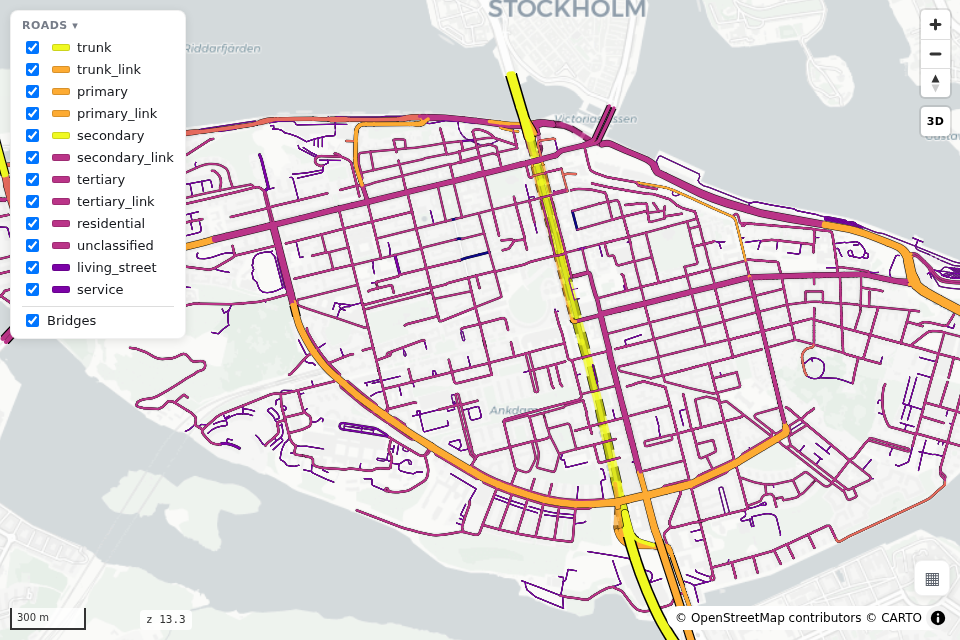
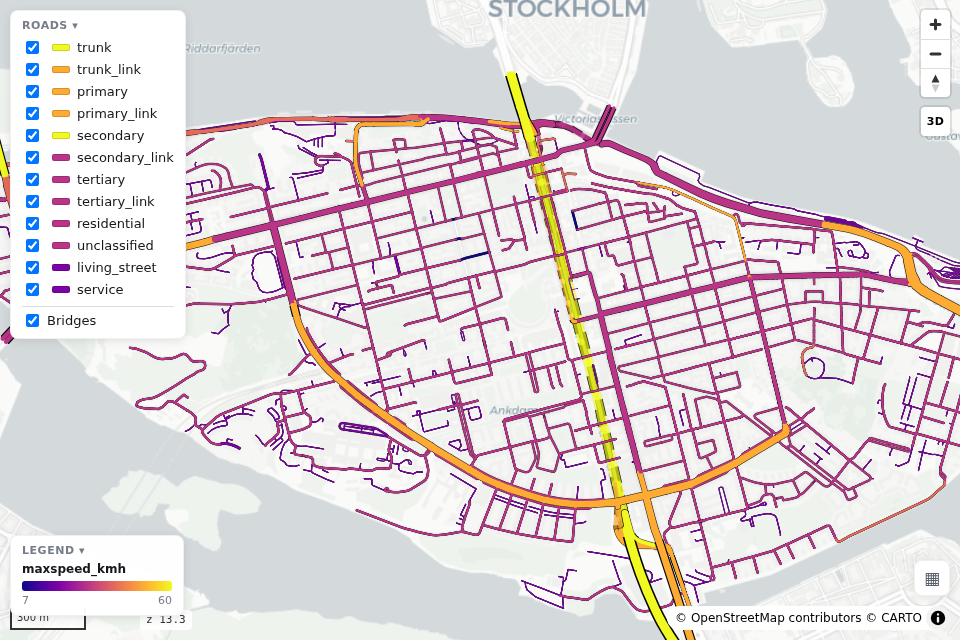
web: honour legend= on the web backend for color_by/cmap maps
render_edges(backend="web", color_by=…, cmap=…) (and the CLI) now bake the data styler's
rf.legend as a single legend-only "colour by" entry, so the page draws the legend — matching
the folium backend's legend= arg. One entry ⇒ no dropdown, just the key. Class styling carries
no legend (unchanged); legend=False opts out. Regenerate the speed_datadriven gallery thumbnail.

Unreleased — not published to PyPI.

Changed region(s): [[0.0, 0.8125, 0.2188, 0.9375]]

diff --git a/tests/test_render_web.py b/tests/test_render_web.py
@@ -63,6 +63,21 @@ def test_web_no_color_options_is_unchanged():
     assert "const COLOR_OPTIONS = [];" in wm.html   # picker JS present but inert (empty)
 
 
+def _copts(html):
+    return re.search(r"const COLOR_OPTIONS = (.+?);", html).group(1)
+
+
+def test_web_color_by_bakes_its_legend():
+    # the plain color_by/cmap path renders the styler's legend on the web backend (no dropdown —
+    # one legend-only entry). legend=True is the default, matching folium.
+    on = _copts(render_edges(_edges(), backend="web", color_by="aadt", cmap="viridis").html)
+    assert '"legend"' in on and '"kind": "continuous"' in on   # continuous ramp legend baked
+    # legend=False opts out
+    off = _copts(render_edges(_edges(), backend="web", color_by="aadt", cmap="viridis",
+                              legend=False).html)
+    assert off == "[]"
+
+
 def test_web_annotation_slots_alternate_names_and_arrows():
     """The annotation plan: each road chain is sliced into equal per-band slots; names take even
     slots, oneway arrows odd ones (alternating, never stacked); unnamed roads leave their name

diff --git a/src/roadstyle/render_web.py b/src/roadstyle/render_web.py
@@ -839,7 +839,7 @@ def render(gdf, palette: str = "highsat", highway_col: str = "highway",
            tooltip=None, hover_color: str = "#b388ff", select_color: str = "#7c4dff", boundary=None,
            color_options=None, color_active=0, overlays=None, compress: bool = True,
            tiles: bool = False,
-           minzoom=None, **_ignore):
+           minzoom=None, legend: bool = True, **_ignore):
     """Build a self-contained MapLibre map of the styled edges.
 
     If the data carries ``tunnel`` / ``bridge`` / ``layer`` columns (named via ``tunnel_col`` /
@@ -920,6 +920,13 @@ def render(gdf, palette: str = "highsat", highway_col: str = "highway",
             styler = build_styler(palette=palette, highway_col=highway_col)
         rf = styler.resolve_frame(g)
         geo = bake_props(json.loads(g.to_json()), rf)   # per-edge __rs_fill/__rs_casing
+        if legend and getattr(rf, "legend", None):
+            # a data styler (color_by / cmap / colors) stashes legend metadata on its resolved
+            # frame; surface it as a single legend-only "colour by" entry so the page draws the
+            # legend (one entry ⇒ no dropdown, just the key). Class styling carries none, and
+            # legend=False opts out — matching the folium backend's `legend` arg.
+            color_opts_meta = [{"name": rf.legend.get("title") or "data",
+                                "prop": "__rs_fill", "legend": rf.legend}]
     _mark_twoway(geo)
     _mark_lvl(geo, tunnel_col, bridge_col, layer_col)
     _stringify_unsafe_ints(geo)   # BIGINT ids (e.g. edge_id) -> string so JS doesn't round them

diff --git a/CHANGELOG.md b/CHANGELOG.md
@@ -4,6 +4,15 @@ All notable changes to **roadstyle** are documented here. The format is based on
 [Keep a Changelog](https://keepachangelog.com/) and this project adheres to
 [Semantic Versioning](https://semver.org/).
 
+## [Unreleased]
+
+### Fixed
+- **Web backend honours `legend=`.** `render_edges(backend="web", color_by=…, cmap=…)` (and the CLI
+  `--color-by … -f web`) now render the data styler's legend — a continuous ramp or categorical key,
+  drawn as a single legend-only entry (no *Colour by* dropdown) — matching the folium backend.
+  Previously a data-coloured web map showed no key unless you used `color_options`. `legend=False`
+  opts out; class-styled maps are unchanged (they carry the road-type filter, no legend).
+
 ## [0.3.0] — 2026-07-24
 
 ### Added